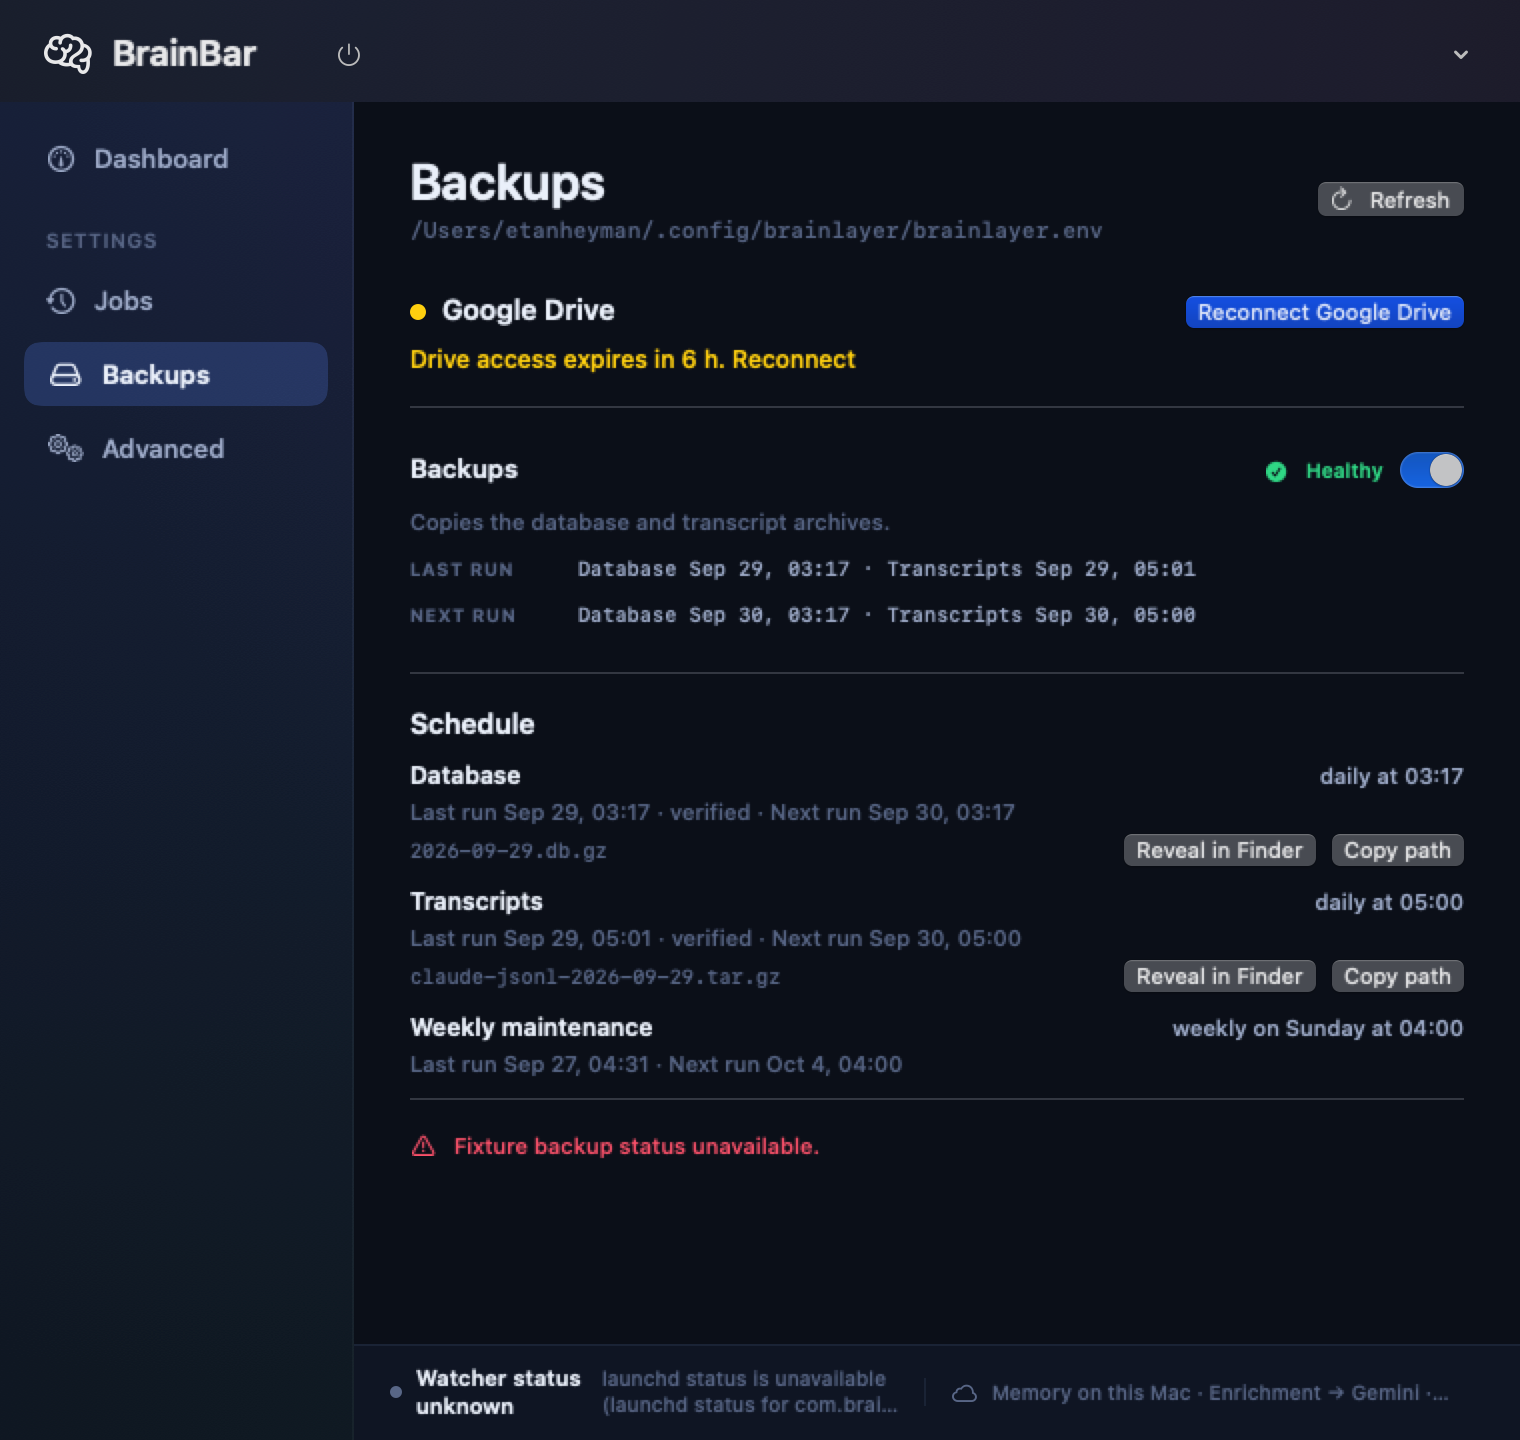
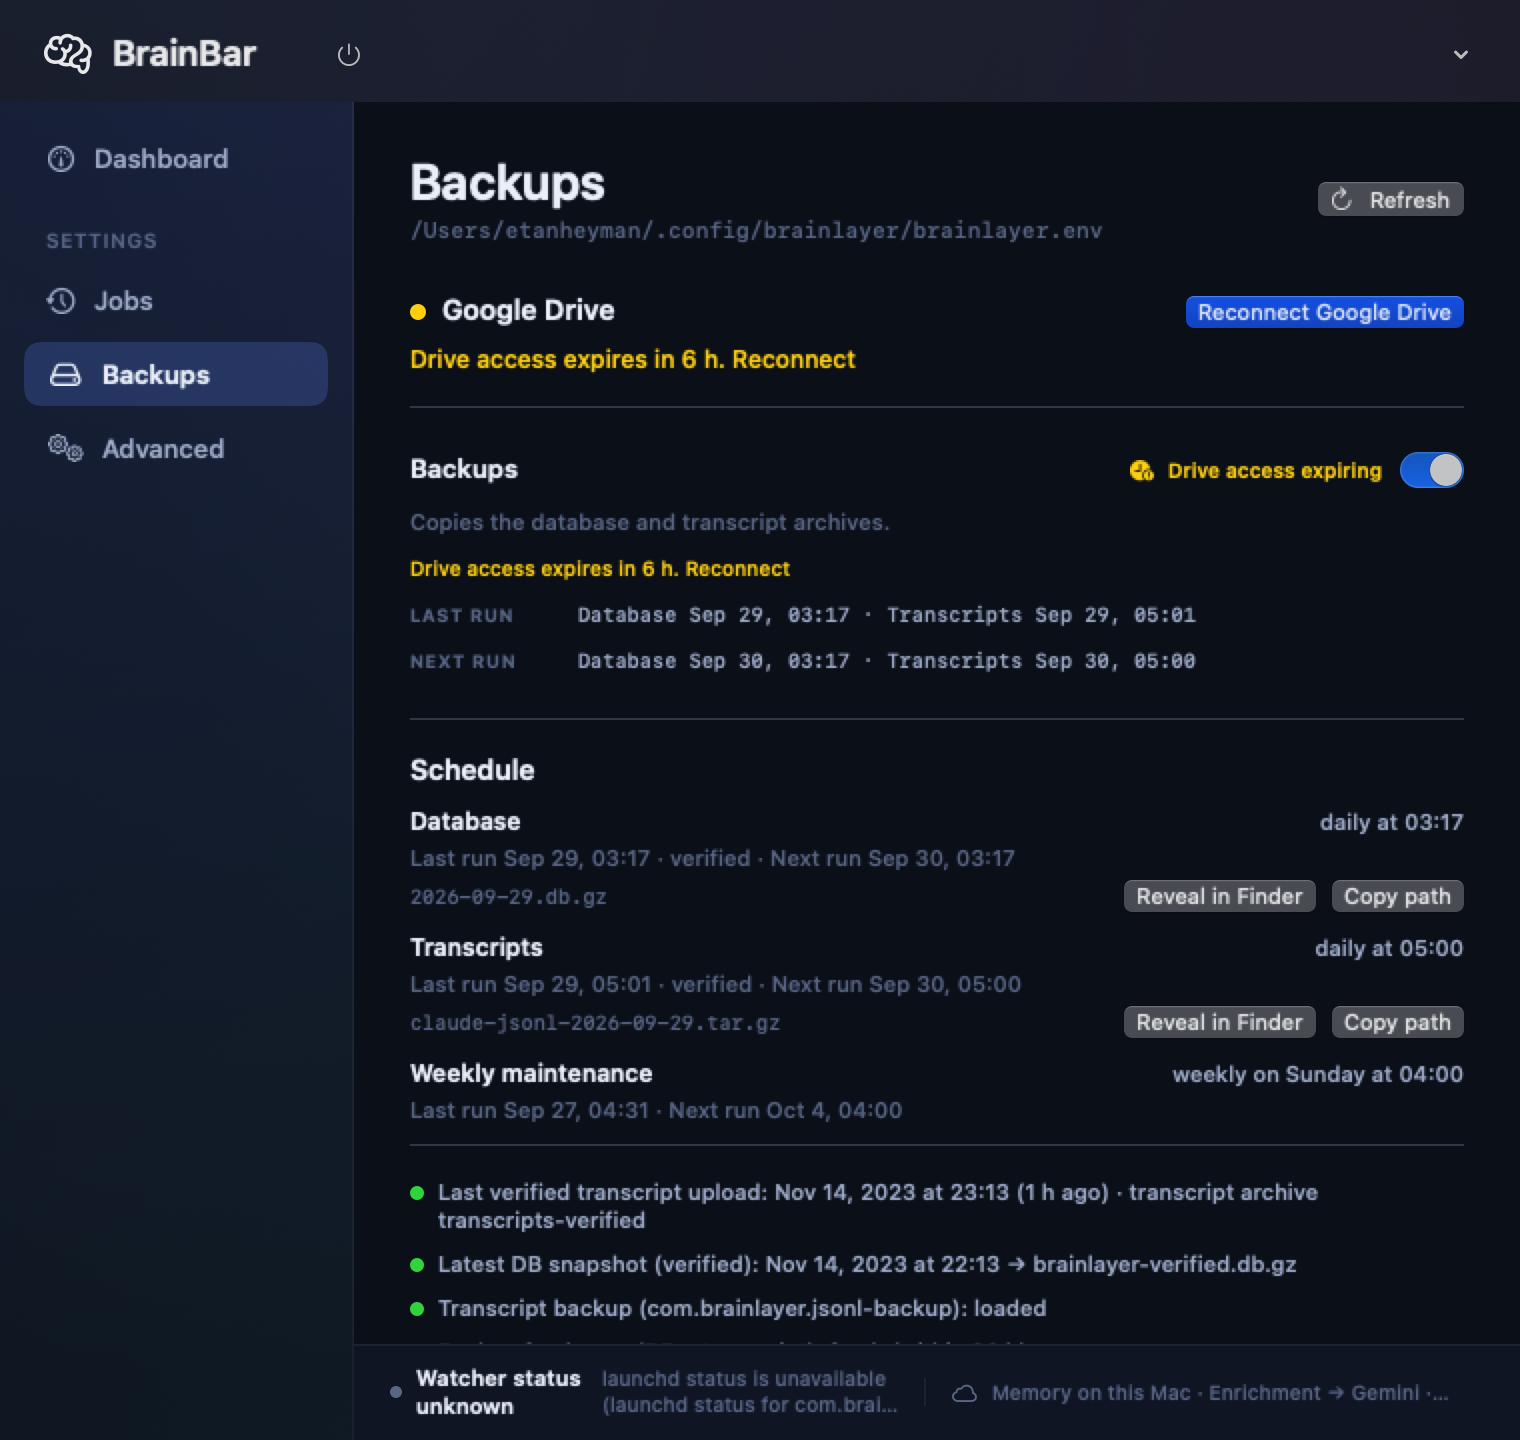
fix(brainbar): one Backups verdict for badge, Drive card and lines; a job alert leads (#1029 B1, B2)
- BrainBarBackupsHealth.derive takes the Drive presentation the card shows,
  the Backups launchd group and the backup status lines. Red, most severe
  first: the job alert, Drive missing/invalid, the job, the other lines.
  Expiring Drive is amber; Healthy needs valid Drive, a healthy job and no
  red line. The Backups group card shows it and observes the Drive model.
- ObservabilityBackupStatus.attentionLine puts a job alert ahead of other
  red lines; the hero and the one-page summary use it.
- Renders re-captured: the Backups Drive states now sit on the fixture's
  verified backups, plus a new Connected + Healthy capture.

diff --git a/brain-bar/Sources/BrainBar/BrainBarSettingsView.swift b/brain-bar/Sources/BrainBar/BrainBarSettingsView.swift
@@ -293,6 +293,17 @@ final class BrainBarSettingsViewModel: ObservableObject {
         return ObservabilityPresentation.backupStatus(for: document.backups)
     }
 
+    /// The Backups page's one verdict (#1029 review B1), from the same Drive presentation the card
+    /// shows, the Backups job group and the backup status lines.
+    func backupsHealth(drive: DriveAuthPresentation?) -> BrainBarBackupsHealth {
+        BrainBarBackupsHealth.derive(
+            job: groupStatus(.backups),
+            drive: drive,
+            status: backupStatus,
+            statusUnavailableReason: backupStatusReason ?? "Backup status is unmeasurable."
+        )
+    }
+
     var backupStatusReason: String? {
         switch observabilityResult {
         case let .unreadable(value):
@@ -885,10 +896,10 @@ struct BrainBarSettingsView: View {
         case .backups:
             VStack(alignment: .leading, spacing: 16) {
                 if let driveAuth {
-                    BrainBarDriveAuthCard(model: driveAuth)
-                    Divider()
+                    BrainBarDriveAwareBackupsGroup(viewModel: viewModel, driveAuth: driveAuth)
+                } else {
+                    BrainBarJobGroupCard(group: .backups, viewModel: viewModel, backupsHealth: viewModel.backupsHealth(drive: nil))
                 }
-                BrainBarJobGroupCard(group: .backups, viewModel: viewModel)
                 Divider()
                 backupSchedule
                 backupStatus
@@ -1020,9 +1031,29 @@ struct BrainBarSettingsView: View {
 
 }
 
+/// The Drive card and the Backups group card, observing both models so the badge follows Drive.
+private struct BrainBarDriveAwareBackupsGroup: View {
+    @ObservedObject var viewModel: BrainBarSettingsViewModel
+    @ObservedObject var driveAuth: BrainBarDriveAuthModel
+
+    var body: some View {
+        VStack(alignment: .leading, spacing: 16) {
+            BrainBarDriveAuthCard(model: driveAuth)
+            Divider()
+            BrainBarJobGroupCard(
+                group: .backups,
+                viewModel: viewModel,
+                backupsHealth: viewModel.backupsHealth(drive: driveAuth.presentation(formatDate: BrainBarDriveAuthFormat.date))
+            )
+        }
+    }
+}
+
 private struct BrainBarJobGroupCard: View {
     let group: BrainLayerLaunchdJobGroup
     @ObservedObject var viewModel: BrainBarSettingsViewModel
+    /// The Backups page passes its combined verdict; other groups show launchd health alone.
+    var backupsHealth: BrainBarBackupsHealth?
 
     static func symbol(_ health: BrainLayerLaunchdGroupHealth) -> String {
         switch health {
@@ -1042,15 +1073,44 @@ private struct BrainBarJobGroupCard: View {
         }
     }
 
+    /// The badge and its reason: the Backups page's combined verdict, else launchd health.
+    private struct Badge {
+        let title: String, symbol: String, color: Color
+        let reason: String?, reasonColor: Color
+    }
+
+    private func badge(_ status: BrainLayerLaunchdGroupStatus) -> Badge {
+        guard let backupsHealth else {
+            return Badge(
+                title: status.health.title, symbol: Self.symbol(status.health), color: Self.color(status.health),
+                reason: status.attentionReason,
+                reasonColor: status.health == .unknown ? Color.brainBarTextMuted : BrainBarStateTheme.error.theme.swiftUIColor
+            )
+        }
+        let (symbol, color): (String, Color) = switch backupsHealth.badge {
+        case .healthy: (Self.symbol(.healthy), Self.color(.healthy))
+        case .awaitingRun: (Self.symbol(.awaitingRun), Self.color(.awaitingRun))
+        case .expiring: ("clock.badge.exclamationmark.fill", Color(nsColor: BrainBarDesignTokens.Colors.statusAttention))
+        case .attention: (Self.symbol(.unhealthy), Self.color(.unhealthy))
+        case .unknown: (Self.symbol(.unknown), Self.color(.unknown))
+        }
+        return Badge(
+            title: backupsHealth.badge.title, symbol: symbol, color: color,
+            reason: backupsHealth.reason,
+            reasonColor: backupsHealth.badge == .unknown ? Color.brainBarTextMuted : color
+        )
+    }
+
     var body: some View {
         let status = viewModel.groupStatus(group)
+        let badge = badge(status)
         VStack(alignment: .leading, spacing: 10) {
             HStack(alignment: .firstTextBaseline) {
                 Text(group.title).font(.system(size: 13, weight: .semibold))
                 Spacer()
-                Label(status.health.title, systemImage: Self.symbol(status.health))
+                Label(badge.title, systemImage: badge.symbol)
                     .font(.system(size: 10, weight: .semibold))
-                    .foregroundStyle(Self.color(status.health))
+                    .foregroundStyle(badge.color)
                 Toggle(group.title, isOn: Binding(
                     get: { viewModel.isGroupEnabled(group) },
                     set: { viewModel.setGroup(group, enabled: $0) }
@@ -1059,10 +1119,10 @@ private struct BrainBarJobGroupCard: View {
             Text(group.summary)
                 .font(.system(size: 11, weight: .medium))
                 .foregroundStyle(Color.brainBarTextMuted)
-            if let reason = status.attentionReason {
+            if let reason = badge.reason {
                 Text(reason)
                     .font(.system(size: 10, weight: .medium))
-                    .foregroundStyle(status.health == .unknown ? Color.brainBarTextMuted : BrainBarStateTheme.error.theme.swiftUIColor)
+                    .foregroundStyle(badge.reasonColor)
             }
             groupTiming(label: "LAST RUN", value: status.lastRunText)
             groupTiming(label: "NEXT RUN", value: status.nextRunText)

diff --git a/brain-bar/Sources/BrainBar/BrainLayerLaunchdActivity.swift b/brain-bar/Sources/BrainBar/BrainLayerLaunchdActivity.swift
@@ -207,12 +207,25 @@ struct BrainBarBackupsHealth: Equatable, Sendable {
         status: ObservabilityBackupStatus?,
         statusUnavailableReason: String
     ) -> Self {
-        let badge: Badge = switch job.health {
-        case .healthy: .healthy
-        case .awaitingRun: .awaitingRun
-        case .unhealthy: .attention
-        case .unknown: .unknown
+        // Every red line the page shows, most severe first: the failed job's own alert, Drive
+        // access, the launchd job, then the other backup diagnostics.
+        let red = [
+            status.flatMap { $0.errorIsJobAlert ? $0.attentionLine?.text : nil },
+            drive?.tone == .attention ? drive?.line : nil,
+            job.health == .unhealthy ? job.attentionReason : nil,
+            status.map { $0.attentionLine?.text } ?? statusUnavailableReason,
+        ].compactMap { $0 }
+        if let reason = red.first { return .init(badge: .attention, reason: reason) }
+        switch drive?.tone {
+        case .expiring: return .init(badge: .expiring, reason: drive?.line)
+        case .unknown: return .init(badge: .unknown, reason: drive?.line)
+        case .attention, .connected, nil: break
         }
-        return .init(badge: badge, reason: job.attentionReason)
+        return switch job.health {
+        case .healthy: .init(badge: .healthy, reason: nil)
+        case .awaitingRun: .init(badge: .awaitingRun, reason: nil)
+        case .unknown: .init(badge: .unknown, reason: job.attentionReason)
+        case .unhealthy: .init(badge: .attention, reason: job.attentionReason)
+        }
     }
 }

diff --git a/brain-bar/Sources/BrainBar/BrainBarRenderHarness.swift b/brain-bar/Sources/BrainBar/BrainBarRenderHarness.swift
@@ -388,6 +388,7 @@ enum BrainBarRenderHarness {
             BrainBarSettingsSection.allCases.map { ($0, false, $0 == .backups ? backupRows : [], "", "connected", ["compact", "default", "wide"]) }
             + [(.advanced, true, [], "", "connected", ["compact", "default", "wide"]),
                (.backups, false, unknownRows, "-unknown", "connected", ["compact", "default", "wide"]),
+               (.backups, false, backupRows, "-drive-connected", "connected", ["default"]),
                (.backups, false, backupRows, "-drive-expiring", "expiring", ["compact", "default", "wide"]),
                (.backups, false, backupRows, "-drive-missing", "missing", ["default"]),
                (.backups, false, backupRows, "-drive-invalid-cancelled", "invalid-cancelled", ["default"]),
@@ -421,7 +422,10 @@ enum BrainBarRenderHarness {
                                         lastRunAt: at(29, 5, 1), nextRunAt: at(30, 5, 0), isContinuous: false),
                 ] : [:],
                 refreshStatusOnLoad: false,
-                initialObservabilityResult: .unreadable("Fixture backup status unavailable."),
+                // The Drive renders get verified, fresh backups, so each shows only its Drive state.
+                initialObservabilityResult: scenario.suffix.hasPrefix("-drive")
+                    ? BrainBarDashboardFixture.healthyObservabilityResult
+                    : .unreadable("Fixture backup status unavailable."),
                 initialBackupSchedules: scenario.backups
             )
             if scenario.receipt {

diff --git a/brain-bar/Sources/BrainBar/Dashboard/ObservabilityView.swift b/brain-bar/Sources/BrainBar/Dashboard/ObservabilityView.swift
@@ -348,9 +348,11 @@ struct ObservabilityBackupStatus: Equatable, Sendable {
         [upload, snapshot, job, freshness, retention, archives] + [error].compactMap { $0 }
     }
 
-    /// The one red line that speaks for the backups.
+    /// The one red line that speaks for the backups: a job alert, the failed job's own sentence,
+    /// leads whatever else is red (#1029 review B2); otherwise the first red line.
     var attentionLine: ObservabilityStatusLine? {
-        lines.first { $0.tone == .red }
+        if errorIsJobAlert, let error, error.tone == .red { return error }
+        return lines.first { $0.tone == .red }
     }
 }
 

diff --git a/brain-bar/Sources/BrainBar/Dashboard/BrainBarDashboardFixture.swift b/brain-bar/Sources/BrainBar/Dashboard/BrainBarDashboardFixture.swift
@@ -129,6 +129,8 @@ enum BrainBarDashboardFixture {
         lastWriteAt: fetchedAt
     )
     static let emptyObservabilityResult = makeObservabilityResult(stats: emptyStats)
+    /// Verified, fresh backups: the Backups page's Drive renders isolate the Drive state with it.
+    static let healthyObservabilityResult = makeObservabilityResult(stats: stats)
 
     private static func makeObservabilityResult(
         stats: DashboardStats, generatedAt: Date = fetchedAt

diff --git a/brain-bar/docs/ui-renders/2026-09-30-drive-reconnect/README.md b/brain-bar/docs/ui-renders/2026-09-30-drive-reconnect/README.md
@@ -7,12 +7,14 @@ DEVELOPER_DIR=/Applications/Devtools/Xcode.app/Contents/Developer swift build --
 BRAINBAR_DB_PATH=<scratch>/brainlayer.db BRAINBAR_RENDER_ONLY=<scratch>/out .build/debug/BrainBar
 ```
 
-| State (`brainlayer backup auth --status --json`) | Backups page | Button |
-|---|---|---|
-| `valid` | [Connected: renews by <date>](backups-connected-default.png) | none |
-| `expiring` (under 24 h left, day 6 of the 7-day Testing-mode consent) | "Drive access expires in 6 h. Reconnect", amber, at [760](backups-expiring-compact.png), [960](backups-expiring-default.png) and [1280](backups-expiring-wide.png) | Reconnect Google Drive |
-| `missing` | ["Google Drive is not connected. Backups can't upload."](backups-missing-default.png) plus the CLI's reason | Reconnect Google Drive |
-| `invalid`, after a cancelled reconnect | ["Drive access expired or was revoked…"](backups-invalid-cancelled-default.png) plus "Reconnect was cancelled: <reason>" | still shown |
-| reconnect running | ["Waiting for Google consent in your browser…"](backups-reconnecting-default.png) | disabled, with a spinner |
+| State (`brainlayer backup auth --status --json`) | Backups page | Backups badge (#1029 review B1) | Button |
+|---|---|---|---|
+| `valid` | [Connected: renews by <date>](backups-connected-default.png) | green **Healthy** | none |
+| `expiring` (under 24 h left, day 6 of the 7-day Testing-mode consent) | "Drive access expires in 6 h. Reconnect", amber, at [760](backups-expiring-compact.png), [960](backups-expiring-default.png) and [1280](backups-expiring-wide.png) | amber **Drive access expiring**, with the same line | Reconnect Google Drive |
+| `missing` | ["Google Drive is not connected. Backups can't upload."](backups-missing-default.png) plus the CLI's reason | red **Needs attention**, with the same line | Reconnect Google Drive |
+| `invalid`, after a cancelled reconnect | ["Drive access expired or was revoked…"](backups-invalid-cancelled-default.png) plus "Reconnect was cancelled: <reason>" | red **Needs attention**, with the same line | still shown |
+| reconnect running | ["Waiting for Google consent in your browser…"](backups-reconnecting-default.png) | red **Needs attention** until consent completes | disabled, with a spinner |
+
+The Drive renders use the fixture's verified, fresh backups (every status line green), so each badge shows only its Drive state. The badge, its reason, the Drive card and the status lines all come from one derivation, `BrainBarBackupsHealth`: a red line anywhere on the page means a red badge, and Healthy means Drive `valid`, a healthy job and no red line.
 
 **Dashboard banner:** [expiring, in the real window](dashboard-banner-expiring-default.png). It sits under the status strip and shows only when Drive needs a click. The button is grey in this capture only because an off-screen window is never the key window.
